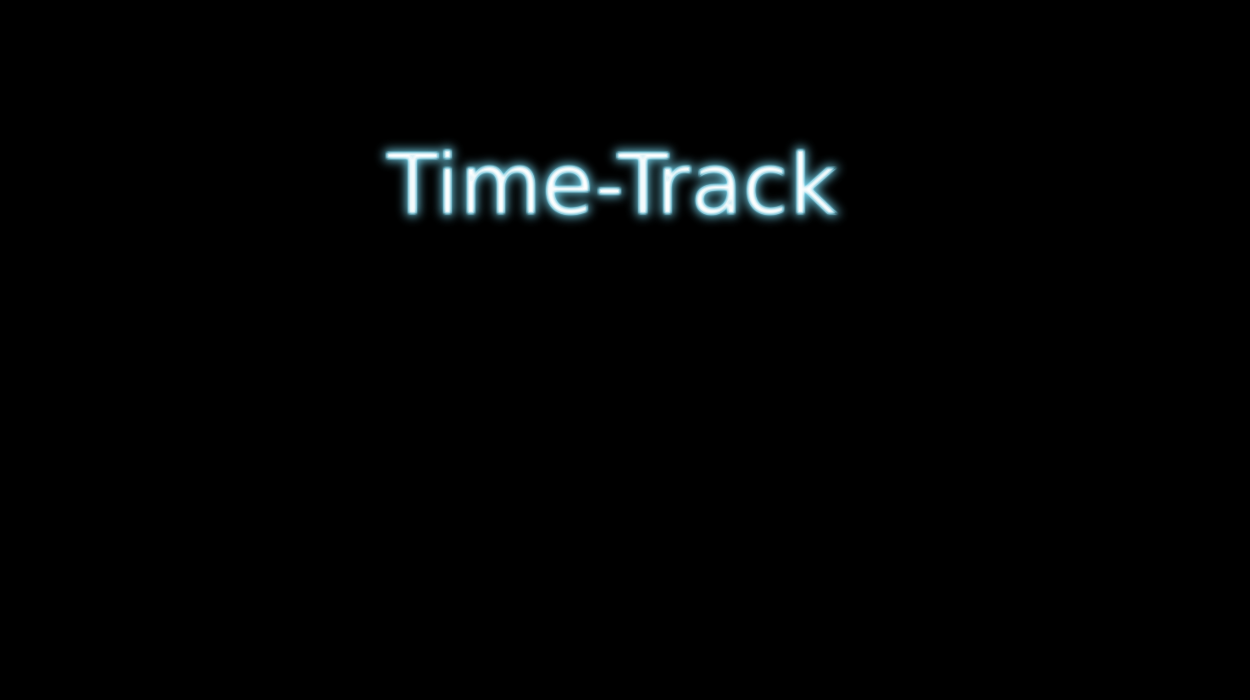
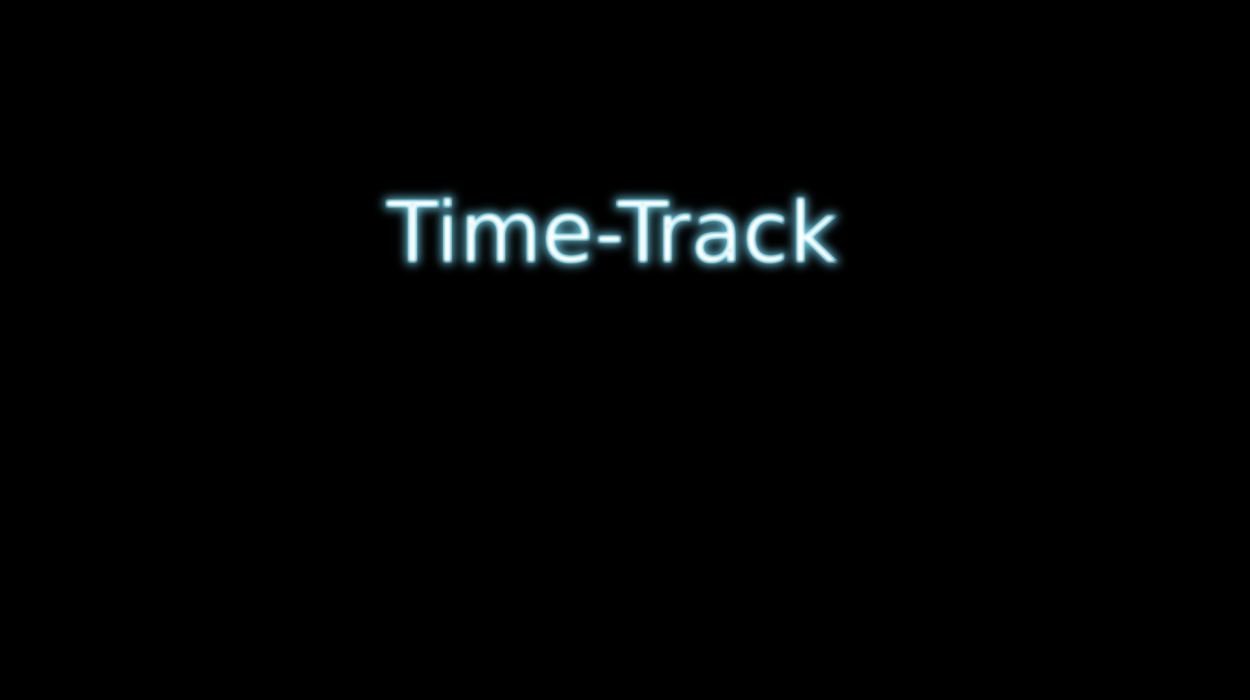
intro page customised

Changed region(s): [[0.2808, 0.18, 0.6864, 0.39]]

diff --git a/heal_track.py b/heal_track.py
@@ -1127,8 +1127,8 @@ class Application(Frame):
         self.clock_label.bind(self.display_time())
 
         # Insertion of picture
-        self.photo = PhotoImage(file='./syno_gif/fondcolorbg.png')
-        self.item = self.can.create_image(625, 400, image=self.photo)
+        self.photo = PhotoImage(file='./syno_gif/fondcolorbg4.png')
+        self.item = self.can.create_image(625, 350, image=self.photo)
         # Insertion of text
         self.can.create_text(625, 350, anchor=CENTER, 
             text="Python 3.6 - Tkinter 8.6 - GIMP 2.8",
